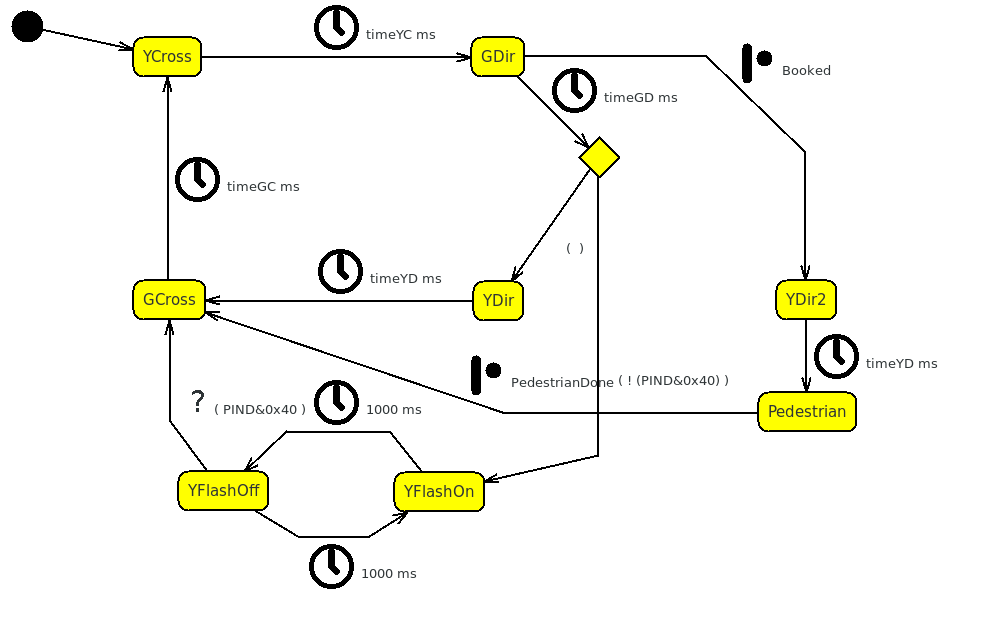
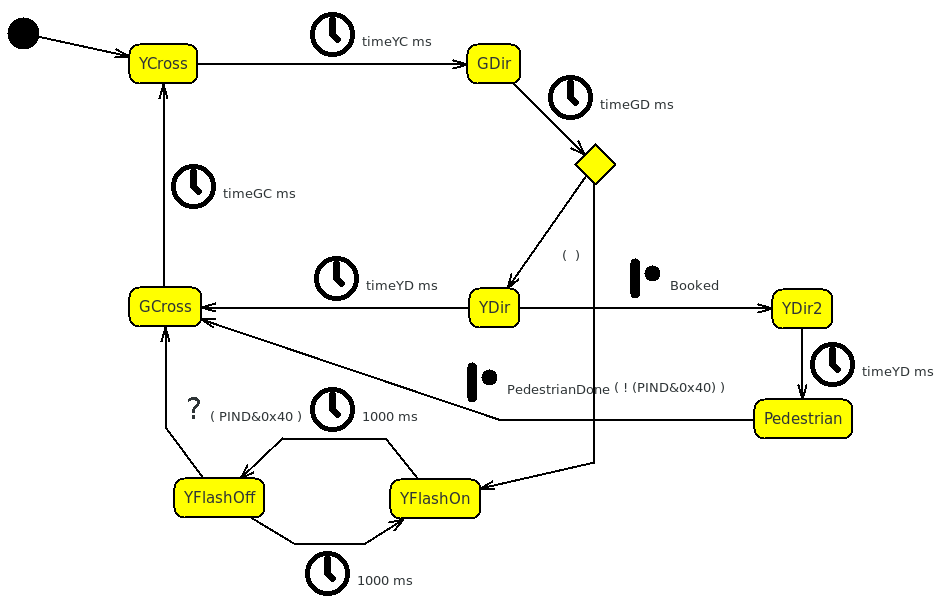
Docs

Changed region(s): [[0.0, 0.0, 0.9779, 0.9918], [0.7334, 0.062, 0.8556, 0.155], [0.764, 0.155, 0.7945, 0.217]]

diff --git a/docs/page9.html b/docs/page9.html
@@ -22,6 +22,7 @@
       <br>
       We can do that by introducing in the <b>Semaphore</b>, something
       that receives a message : “<i>hey … someone is booking a time slot</i>”,
+
       then the <b>Semaphore</b> should tell the <b>Pedestrian</b> that
       “<i>it’s time to start</i>”, and at the end the <b>Pedestrian</b>
       should tell to the Semaphore “<i>I’m ok you can continue with your
@@ -92,6 +93,7 @@
       that uses an internal private token.</p>
     <p>This means that to raise&nbsp; the token, we do not need to call
       the <b>TokenRaise</b> macro with the name of the token, but the <b>Semaphore_Booked
+
         ( )</b> function.</p>
     <p>The <i>Limit</i> to 1 makes the booking unique independently
       from the times the pedestrian pressed the pedestrian button.<br>
@@ -100,6 +102,7 @@
     </p>
     <p><br>
       After the <b>Booked</b> <b>Token</b> we need to define the <i>Message
+
         3</i> token, we can call it <b>PedestrianDone</b> :<br>
     </p>
     <img src="ff3.png" alt="" width="397" hspace="50" height="280"
@@ -110,7 +113,7 @@
     A counter type token is a real token, that can be raised by using
     the proper macro :<br>
     <span style="font-style: normal"><span style="font-weight: normal"></span></span>
-    <pre class="western" style="margin-bottom: 0.5cm; background: #ffffff"><font color="#000000"><font color="#800080"><span style="font-style: normal"><span style="font-weight: normal">TokenRaise</span></span></font><font color="#808030"><span style="font-style: normal"><span style="font-weight: normal">(</span></span></font><font color="#333333"><span style="font-weight: normal">PedestrianDone</span></font><font color="#808030"><span style="font-style: normal"><span style="font-weight: normal">)</span></span></font><font color="#800080"><span style="font-style: normal"><span style="font-weight: normal">;<br></span></span></font></font></pre>This can be done everywhere into the project code as well as in a interrupt routine, without the need to include the module where the token is defined, because it is referred into the <b>tokens.h</b> header that is included by default.<br><br><br><br><br><p><br></p><p>Now we need to introduce the token for the <i>Message 2</i> in <b>Pedestrian</b> , so we can open the related dialog box and add a <b>Token</b>.<br></p><img src="ff2.png" alt="" width="395" hspace="50" height="278" align="left"><p>Note that in this case,&nbsp; <b>Token</b> <i>must be</i> a <i>Counter</i>, because<b> Semaphore</b> <i>does not depends</i> by <b>Pedestrian</b> and does not include any public function of pedestrian.<br></p><p>Any attempt to make <b>Semaphore</b> depending from <b>Pedestrian</b>, creates a mutual dependency that should be avoided. <br><br></p><p><br></p><p><br></p><p><br></p><p><br></p><p><br></p><p>At this point we need to modify <b>Pedestrian</b> and <b>Semaphore </b>to connect the tokens.<br></p><h2>Pedestrian</h2><p><img src="ff4.png" alt="" width="413" hspace="50" height="309" align="left"></p><p>In the new model we cannot start the cycle until we receive the <i>Message 2</i> from <b>Semaphore</b> .<br></p><p>We need to send the request to <b>Semaphore</b> between <i>WaitingButton</i> and <i>Booked</i> :</p><pre class="western" style="margin-bottom: 0.5cm; background: #ffffff"><font color="#800080"><span style="font-style: normal"><span style="font-weight: normal">Semaphore_Booked</span></span></font><font color="#808030"><span style="font-style: normal"><span style="font-weight: normal">()</span></span></font><font color="#800080"><span style="font-style: normal"><span style="font-weight: normal">;</span></span></font></pre><p>And tell the <b>Semaphore </b>we have finished (<i>Message 3</i>) between the <i>Branch</i> and the <i>WaitingButton</i>.<br></p><p>We can do that with <i>TokenRaise</i> :<br></p><pre class="western" style="margin-bottom: 0.5cm; background: #ffffff"><font color="#000000"><font color="#800080"><span style="font-style: normal"><span style="font-weight: normal">TokenRaise</span></span></font><font color="#808030"><span style="font-style: normal"><span style="font-weight: normal">(</span></span></font><font color="#333333"><span style="font-weight: normal">PedestrianDone</span></font><font color="#808030"><span style="font-style: normal"><span style="font-weight: normal">)</span></span></font><font color="#800080"><span style="font-style: normal"><span style="font-weight: normal">;<br><br><br></span></span></font></font></pre><p><br></p><p><br></p><p>The trigger between <b>Booked </b>and <b>Green</b> is a token receiver instead that uses the <b>StartPedestrian</b> defined in <b>Pedestrian</b> . <br></p><img src="ff5.png" alt="" width="406" hspace="50" height="237" align="left"><p>We can use the <i>Transition Editing Dialog Box</i> to do this , by choosing the token from the choice box.<br></p><p><br></p><p><br></p><p><br></p><p><br></p><p><br></p><br><br><br><h2>Semaphore</h2>In order to introduce the pedestrian time with the double red, we need to add a couple of states to the <b>Semaphore&nbsp; </b>:<br><br><img src="ff6.png" alt="" width="511" hspace="50" height="330"><br>We place the <b>Booked</b> check between <b>GDir</b> and <b>YDir2</b> . The <b>YDir2</b> states simulate the <b>YDir</b> with yellow on the<b> </b><i>Direct</i> and red on the <i>Crossing</i> :<br><pre class="western"><font color="#696969">/* Bit X X GD YD RD GC YC RC */</font>
+    <pre class="western" style="margin-bottom: 0.5cm; background: #ffffff"><font color="#000000"><font color="#800080"><span style="font-style: normal"><span style="font-weight: normal">TokenRaise</span></span></font><font color="#808030"><span style="font-style: normal"><span style="font-weight: normal">(</span></span></font><font color="#333333"><span style="font-weight: normal">PedestrianDone</span></font><font color="#808030"><span style="font-style: normal"><span style="font-weight: normal">)</span></span></font><font color="#800080"><span style="font-style: normal"><span style="font-weight: normal">;<br></span></span></font></font></pre>This can be done everywhere into the project code as well as in a interrupt routine, without the need to include the module where the token is defined, because it is referred into the <b>tokens.h</b> header that is included by default.<br><br><br><br><br><p><br></p><p>Now we need to introduce the token for the <i>Message 2</i> in <b>Pedestrian</b> , so we can open the related dialog box and add a <b>Token</b>.<br></p><img src="ff2.png" alt="" width="395" hspace="50" height="278" align="left"><p>Note that in this case,&nbsp; <b>Token</b> <i>must be</i> a <i>Counter</i>, because<b> Semaphore</b> <i>does not depends</i> by <b>Pedestrian</b> and does not include any public function of pedestrian.<br></p><p>Any attempt to make <b>Semaphore</b> depending from <b>Pedestrian</b>, creates a mutual dependency that should be avoided. <br><br></p><p><br></p><p><br></p><p><br></p><p><br></p><p><br></p><p>At this point we need to modify <b>Pedestrian</b> and <b>Semaphore </b>to connect the tokens.<br></p><h2>Pedestrian</h2><p><img src="ff4.png" alt="" width="413" hspace="50" height="309" align="left"></p><p>In the new model we cannot start the cycle until we receive the <i>Message 2</i> from <b>Semaphore</b> .<br></p><p>We need to send the request to <b>Semaphore</b> between <i>WaitingButton</i> and <i>Booked</i> :</p><pre class="western" style="margin-bottom: 0.5cm; background: #ffffff"><font color="#800080"><span style="font-style: normal"><span style="font-weight: normal">Semaphore_Booked</span></span></font><font color="#808030"><span style="font-style: normal"><span style="font-weight: normal">()</span></span></font><font color="#800080"><span style="font-style: normal"><span style="font-weight: normal">;</span></span></font></pre><p>And tell the <b>Semaphore </b>we have finished (<i>Message 3</i>) between the <i>Branch</i> and the <i>WaitingButton</i>.<br></p><p>We can do that with <i>TokenRaise</i> :<br></p><pre class="western" style="margin-bottom: 0.5cm; background: #ffffff"><font color="#000000"><font color="#800080"><span style="font-style: normal"><span style="font-weight: normal">TokenRaise</span></span></font><font color="#808030"><span style="font-style: normal"><span style="font-weight: normal">(</span></span></font><font color="#333333"><span style="font-weight: normal">PedestrianDone</span></font><font color="#808030"><span style="font-style: normal"><span style="font-weight: normal">)</span></span></font><font color="#800080"><span style="font-style: normal"><span style="font-weight: normal">;<br><br><br></span></span></font></font></pre><p><br></p><p><br></p><p>The trigger between <b>Booked </b>and <b>Green</b> is a token receiver instead that uses the <b>StartPedestrian</b> defined in <b>Pedestrian</b> . <br></p><img src="ff5.png" alt="" width="406" hspace="50" height="237" align="left"><p>We can use the <i>Transition Editing Dialog Box</i> to do this , by choosing the token from the choice box.<br></p><p><br></p><p><br></p><p><br></p><p><br></p><p><br></p><br><br><br><h2>Semaphore</h2>In order to introduce the pedestrian time with the double red, we need to add a couple of states to the <b>Semaphore&nbsp; </b>:<br><br><img src="ff6.png" alt="" width="511" hspace="50" height="330"><br>We place the <b>Booked</b> check between <b>YDir</b> and <b>YDir2</b> . The <b>YDir2</b> states simulate the <b>YDir</b> with yellow on the<b> </b><i>Direct</i> and red on the <i>Crossing</i> :<br><pre class="western"><font color="#696969">/* Bit X X GD YD RD GC YC RC */</font>
 <font color="#000000">PORTD<font color="#808030">=</font>B11010001<font color="#800080">;</font></font></pre>From <b>YDir2 </b>after the <b>timeYD</b> , the <b>Semaphore</b> goes in <i>Pedestrian Mode</i> with a double <b>RED</b>&nbsp; :<br><br><pre class="western"><font color="#696969">/* Bit X X GD YD RD GC YC RC */</font>
 <font color="#000000">PORTD<font color="#808030">=</font>B11001001<font color="#800080">;</font></font>
 <font color="#000000">TokenRaise<font color="#808030">(</font>StartPedestrian<font color="#808030">)</font><font color="#800080">;</font></font></pre><br>and starts the <b>Pedestrian</b> .<br><br>When the <b>Pedestrian </b><i>cycle</i> is done the <b>Semaphore</b> receives <b>PedestrianDone</b> and continues with the <b>GCross</b> .<br><pre class="western" style="font-weight: normal"><font color="#696969">/* Bit X X GD YD RD GC YC RC */</font>

diff --git a/docs/page6.html b/docs/page6.html
@@ -101,7 +101,7 @@
 
 <font color="#000000"><font color="#004a43">#define TIMER_DEFINITION</font><font color="#808030">(</font><font color="#004a43">timer</font><font color="#808030">)</font><font color="#004a43"> unsigned long timer</font><font color="#808030">;</font></font>
 <font color="#000000"><font color="#004a43">#define TIMER_RESET</font><font color="#808030">(</font><font color="#004a43">timer</font><font color="#808030">)</font><font color="#004a43"> timer</font><font color="#808030">=</font><font color="#004a43">time_ref</font><font color="#808030">();</font></font>
-<font color="#000000"><font color="#004a43">#define TIMER_FOLLOW</font><font color="#808030">(</font><font color="#004a43">timer</font><font color="#808030">,</font><font color="#004a43">delay</font><font color="#808030">)</font><font color="#004a43"> timer</font><font color="#808030">+=</font><font color="#808030"> </font></font><font color="#000000"><font color="#808030"><font color="#000000"><font color="#808030">(</font><font color="#004a43">long</font><font color="#808030">) </font></font>(</font><font color="#004a43">delay</font><font color="#808030">)</font><font color="#808030">;</font></font>
+<font color="#000000"><font color="#004a43">#define TIMER_INCREASE</font><font color="#808030">(</font><font color="#004a43">timer</font><font color="#808030">,</font><font color="#004a43">delay</font><font color="#808030">)</font><font color="#004a43"> timer</font><font color="#808030">+=</font><font color="#808030"> </font></font><font color="#000000"><font color="#808030"><font color="#000000"><font color="#808030">(</font><font color="#004a43">long</font><font color="#808030">) </font></font>(</font><font color="#004a43">delay</font><font color="#808030">)</font><font color="#808030">;</font></font>
 <font color="#000000"><font color="#004a43">#define TIMER_TIMEOUT</font><font color="#808030">(</font><font color="#004a43">timer</font><font color="#808030">,</font><font color="#004a43">delay</font><font color="#808030">)</font><font color="#004a43"> if</font><font color="#808030">((</font><font color="#004a43">long</font><font color="#808030">)</font><font color="#004a43">time_ref</font><font color="#808030">()-(</font><font color="#004a43">long</font><font color="#808030">)</font><font color="#004a43">timer</font><font color="#808030">&gt;=(</font><font color="#004a43">long</font><font color="#808030">)(</font><font color="#004a43">delay</font><font color="#808030">)</font><font color="#808030">)</font></font>
 
 <font color="#000000"><font color="#004a43">#define TOKEN_REFERENCE</font><font color="#808030">(</font><font color="#004a43">token</font><font color="#808030">)</font><font color="#004a43"> extern volatile unsigned token</font><font color="#808030">;</font></font>
@@ -209,21 +209,16 @@
       in the <i>Editing Dialog Boxes </i>and stored into the model.<br>
       <br>
       As we said, in&nbsp; <b>SunRiZe</b>, some part of the code can be
-      stored
-      outside the model, directly into the generated code, and this is
-      especially true for projects which can have a remarkable
+      stored outside the model, directly into the generated code, and
+      this is especially true for projects which can have a remarkable
       consistency.<br>
       <br>
       In <b>SunRiZe</b> there are areas into the produced code that are
       delimited, by special keys named <i>Code Preservation Keys</i>.
-      When a
-      file need to be rewritten/regenerated, due to the model changes,
-      all the
-      code contained between the <i>Code Preservation Keys</i> is
-      temporarily
-      stored in memory and reported when a key with the same tag is
-      inserted
-      into the code by the model.<br>
+      When a file need to be rewritten/regenerated, due to the model
+      changes, all the code contained between the <i>Code Preservation
+        Keys</i> is temporarily stored in memory and reported when a key
+      with the same tag is inserted into the code by the model.<br>
       <br>
       For example, we can consider the <b>Semaphore</b> constructor : </div>
     <br>

diff --git a/docs/page1.html b/docs/page1.html
@@ -16,7 +16,7 @@
     SunRiZe is released under the terms of <br>
     <br>
     <a href="https://www.gnu.org/licenses/gpl-3.0.en.html"><img
-        src="gpl.png" alt="" width="83" hspace="50" height="41"
+        src="lic1.png" alt="" width="83" hspace="50" height="41"
         align="left" border="0"></a><a
       href="https://www.gnu.org/licenses/gpl-3.0.en.html">GPL.v.3.0
       license</a>.<br>
@@ -27,7 +27,7 @@
     All the documentation pages are released under the terms of the<br>
     <br>
     <a href="https://creativecommons.org/licenses/by-sa/4.0/"><img
-        src="ccom.png" alt="" width="88" hspace="50" height="31"
+        src="lic2.png" alt="" width="88" hspace="50" height="31"
         border="0"></a><a
       href="https://creativecommons.org/licenses/by-sa/4.0/">Creative
       Commons 4.0 - BY-SA license</a><br>

diff --git a/docs/page4.html b/docs/page4.html
@@ -8,8 +8,9 @@
   <body>
     <h1> Learning by Example</h1>
     <br>
-    We will start with an example, trying to details the default
-    model in order to understand how does it run.<br>
+    This document follows the “Learning by Example” rules. We will start
+    with an example, trying to details everything, defining the default
+    model and how does it run.<br>
     <br>
     Our example is based on the Arduino architecture and the related
     code editor.<br>

diff --git a/docs/page8.html b/docs/page8.html
@@ -22,7 +22,7 @@
       by the previous one.<br>
     </p>
     <h2>The pedestrian button</h2>
-    <p>The <b>PIN 8 </b>of the <i>Arduino </i>hardware is connected
+    <p>The <b>PIN 7 </b>of the <i>Arduino </i>hardware is connected
       to the <b>BIT 7</b> of the <b>D</b> port that is pull-up. We
       never used this input so we will try to use it as a pedestrian
       button, forcing the pin to ground.<br>

diff --git a/docs/index.html b/docs/index.html
@@ -54,6 +54,10 @@
         <a href="page8.html" target="content" > Multitasking</a>
         <br>
         <a href="page9.html" target="content" > Synchronization and Tokens</a>
+        <br>
+        <a href="page10.html" target="content" > Time Followers</a>
+        <br>
+        <a href="page11.html" target="content" > Trace and Debug</a>
       </div>
     </div>
     <div  style="width: 85%; float:right" >
